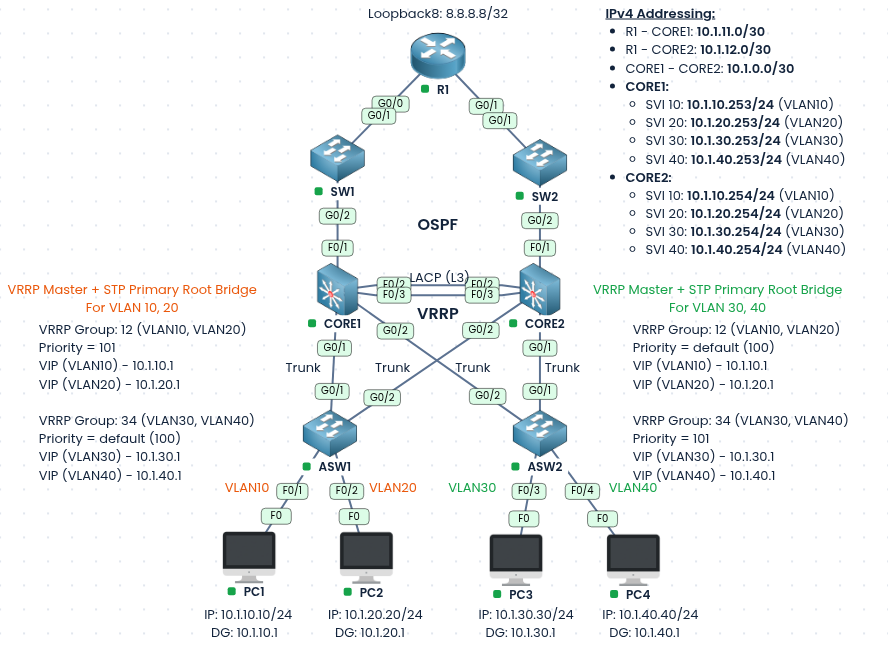
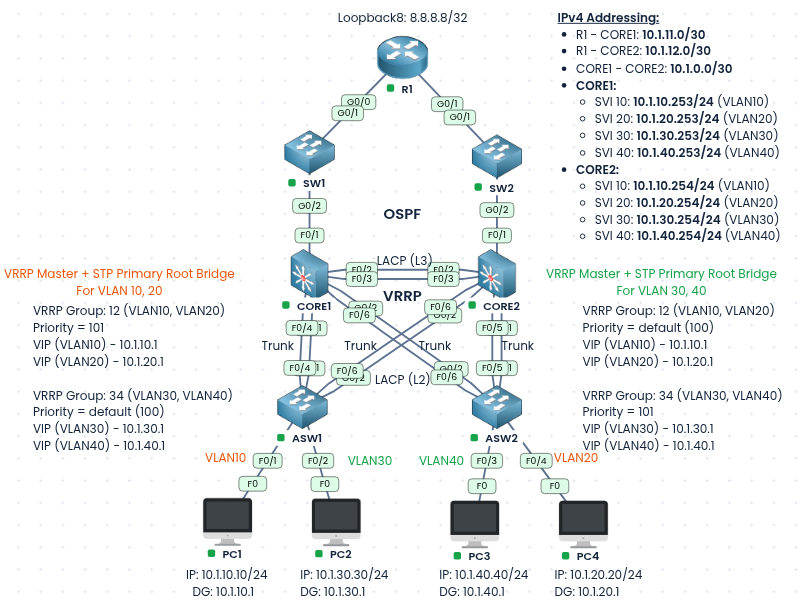
added etherchannel between core and access-layer

Changed region(s): [[0.2185, 0.0, 0.9675, 1.0], [0.0, 0.4165, 0.3121, 0.7438], [0.4682, 0.3273, 0.5306, 0.357]]

diff --git a/hsrp-multi-group-loadbalancing/README.md b/hsrp-multi-group-loadbalancing/README.md
@@ -1,0 +1,106 @@
+### Labs built using:
+* [PingMyNetwork Sandbox](https://pingmynetwork.com/profile/doer)
+---
+# HSRP Multi-Group Load Balancing with Tracking
+![[HSRP01.png]]
+#### 1). Topology Overview
+- R1, CORE1, and CORE2 run OSPF, CORE1 and CORE2 SVIs are advertised into OSPF
+- CORE1 and CORE2 are connected to each other by an LACP port-channel (F0/2 and F0/3) running as a Layer 3 link on `10.1.0.0/30`
+- ASW1 and ASW2 are access switches, and each is connected to both CORE1 and CORE2 using `Trunk` links.
+- Hosts are placed in four VLANs shown above
+- The default gateway of each PC is the HSRP virtual IP of its VLAN (for example `10.1.10.1` for VLAN 10).
+- CORE1 and CORE2 hold the SVIs shown in IPv4 Addressing Label
+---
+#### 2). Configuration of HSRP and STP
+- Make the HSRP Active and the STP root bridge the same switch for each VLAN, so Layer 2 traffic and Layer 3 traffic follow the same path and no traffic has to cross the inter-core link to reach its gateway. Both cores are also actively used, so one is not sitting idle as a standby.
+- NOTE:
+	- In HSRP Preemption is disabled by default for Active Router, need to enable
+
+| HSRP Group | VLANs  | CORE1                  | CORE2                  |
+| ---------- | ------ | ---------------------- | ---------------------- |
+| 12         | 10, 20 | Priority 101 (Active)  | Priority 100 (Standby) |
+| 34         | 30, 40 | Priority 100 (Standby) | Priority 101 (Active)  |
+* CORE1:
+```
+spanning-tree vlan 10,20 priority 0
+interface Vlan10
+ standby version 2
+ standby 12 ip 10.1.10.1
+ standby 12 priority 101
+ standby 12 preempt
+ standby 12 authentication md5 key-string hsrp007
+interface Vlan20
+ standby version 2
+ standby 12 ip 10.1.20.1
+ standby 12 priority 101
+ standby 12 preempt
+ standby 12 authentication md5 key-string hsrp007
+interface Vlan30
+ standby version 2
+ standby 34 ip 10.1.30.1
+ standby 34 preempt
+ standby 34 authentication md5 key-string hsrp007
+interface Vlan40
+ standby version 2
+ standby 34 ip 10.1.40.1
+ standby 34 preempt
+ standby 34 authentication md5 key-string hsrp007
+```
+* CORE2:
+```
+spanning-tree vlan 30,40 priority 0
+interface Vlan10
+ standby version 2
+ standby 12 ip 10.1.10.1
+ standby 12 preempt
+ standby 12 authentication md5 key-string hsrp007
+interface Vlan20
+ standby version 2
+ standby 12 ip 10.1.20.1
+ standby 12 preempt
+ standby 12 authentication md5 key-string hsrp007
+interface Vlan30
+ standby version 2
+ standby 34 ip 10.1.30.1
+ standby 34 priority 101
+ standby 34 preempt
+ standby 34 authentication md5 key-string hsrp007
+interface Vlan40
+ standby version 2
+ standby 34 ip 10.1.40.1
+ standby 34 priority 101
+ standby 34 preempt
+ standby 34 authentication md5 key-string hsrp007
+```
+---
+#### 3). Configuring Tracking
+* CORE1:
+```
+ip sla 1
+ icmp-echo 10.1.11.1 source-interface FastEthernet0/1
+  frequency 5
+ip sla schedule 1 life forever start-time now
+track 1 ip sla 1 reachability
+interface range vlan10,vlan20
+ standby 12 track 1 decrement 2
+```
+* CORE2:
+```
+ip sla 1
+ icmp-echo 10.1.12.1 source-interface FastEthernet0/1
+  frequency 5
+ip sla schedule 1 life forever start-time now
+track 1 ip sla 1 reachability
+interface range vlan30,vlan40
+ standby 34 track 1 decrement 2
+```
+* An IP SLA ICMP probe from each CORE switch to R1 is tracked, and when the link to R1 fails, the HSRP priority of the Active CORE drops by `2`, which makes it `99` (less than the default of `100` on the peer), so the other CORE takes over as the gateway.
+---
+#### 4). Analyzing Failures
+* NOTE: VLAN10 is used as an example here
+* 1). When CORE1 goes down
+* ![VRRP02](../imgs/VRRP02.png)
+* ![VRRP04](../imgs/VRRP04.png)
+* 2). When any link from CORE1 -> R1's g0/0 is down
+* ![VRRP03](../imgs/VRRP03.png)
+* ![VRRP05](../imgs/VRRP05.png)

diff --git a/vrrp-multi-group-loadbalancing/README.md b/vrrp-multi-group-loadbalancing/README.md
@@ -6,7 +6,7 @@
 #### 1). Topology Overview
 - R1, CORE1, and CORE2 run OSPF, CORE1 and CORE2 SVIs are advertised into OSPF
 - CORE1 and CORE2 are connected to each other by an LACP port-channel (F0/2 and F0/3) running as a Layer 3 link on `10.1.0.0/30`
-- ASW1 and ASW2 are access switches, and each is connected to both CORE1 and CORE2 using `Trunk` links.
+- ASW1 and ASW2 are access switches, and each is connected to both CORE1 and CORE2 using EtherChannel `Trunk` links.
 - Hosts are placed in four VLANs shown above
 - The default gateway of each PC is the VRRP virtual IP of its VLAN (for example `10.1.10.1` for VLAN 10).
 - CORE1 and CORE2 hold the SVIs shown in IPv4 Addressing Label
@@ -71,7 +71,7 @@ interface range vlan30,vlan40
 * An IP SLA ICMP probe from each CORE switch to R1 is tracked, and when the link to R1 fails, the VRRP priority of the Master CORE drops by `2`, which makes it `99` (less than the default of `100` on the peer), so the other CORE takes over as the gateway.
 ---
 #### 4). Analyzing Failures
-* NOTE: VLAN10 is used as an example here
+* NOTE: VLAN10, VLAN20 is used as an example here
 * 1). When CORE1 goes down
 * ![VRRP02](../imgs/VRRP02.png)
 * ![VRRP04](../imgs/VRRP04.png)
